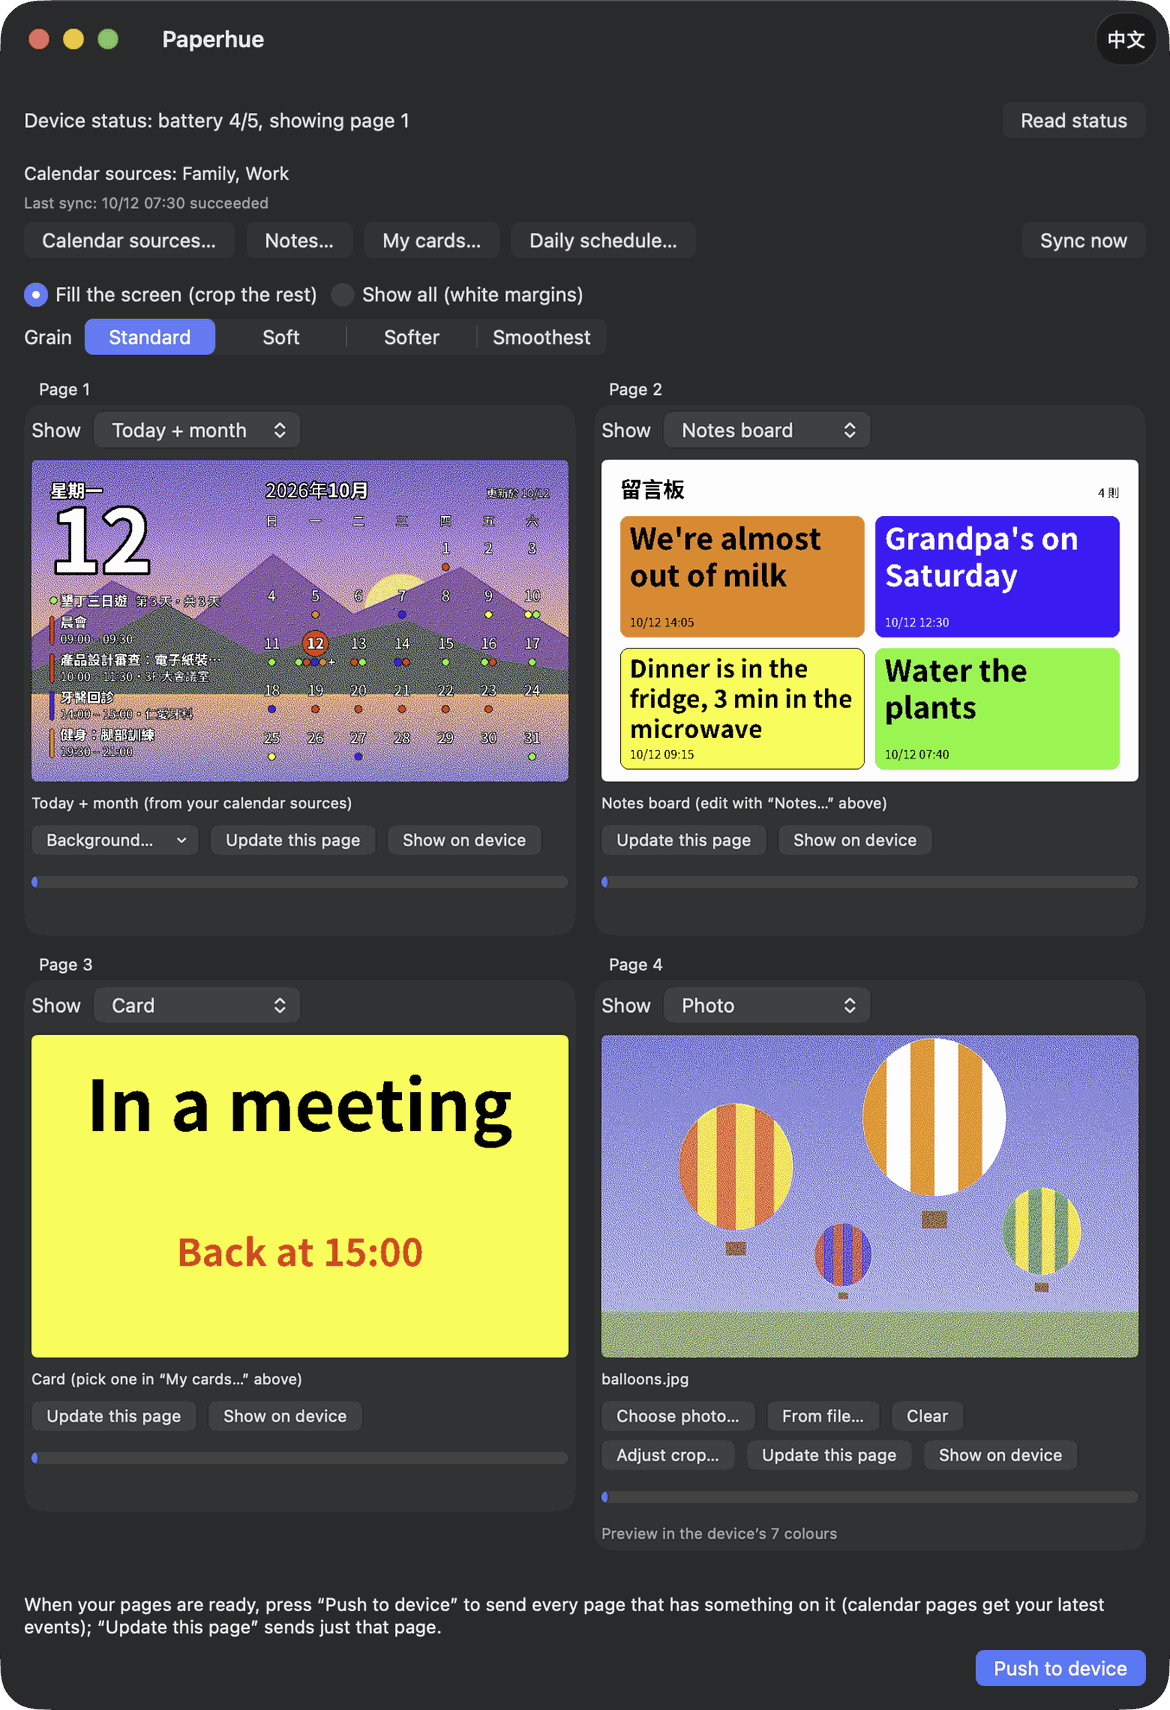
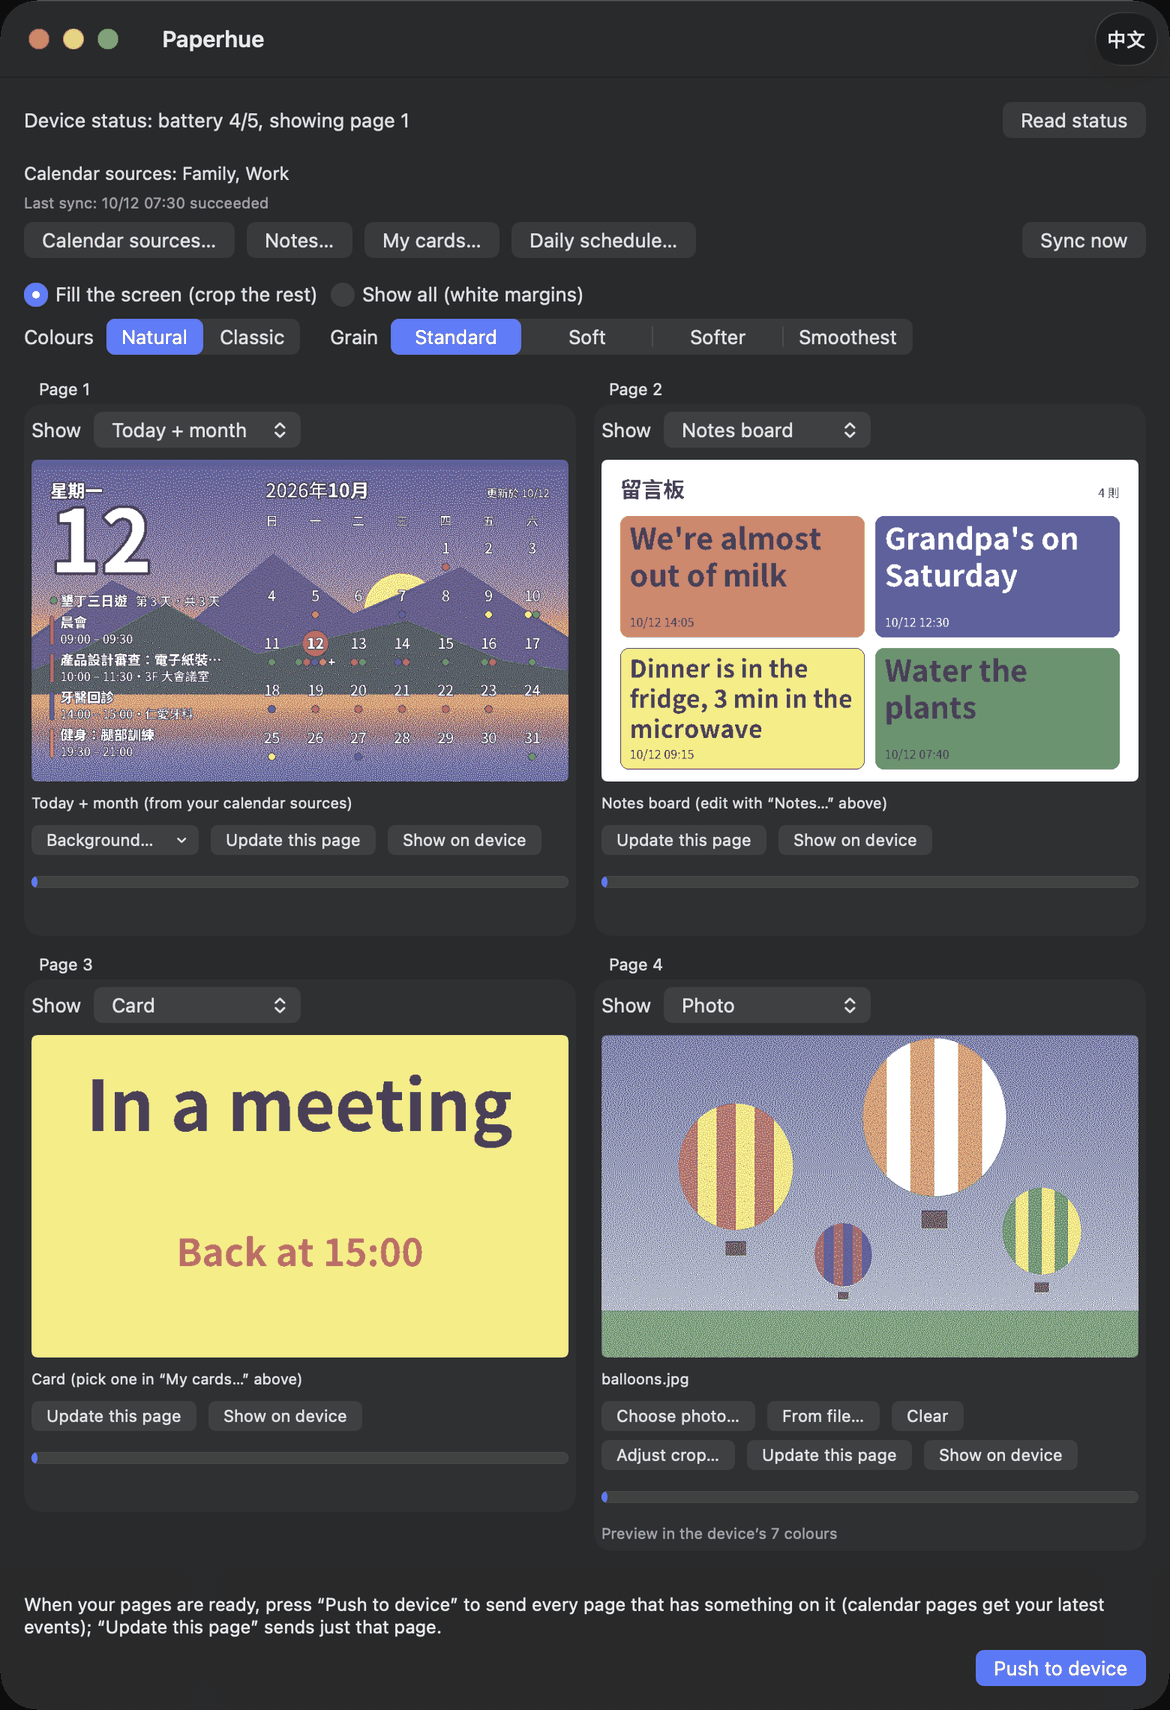
docs: the Mac app's 自然 encoder, and screenshots in the panel's colours
DEVELOPING.md's Photo dithering says how 自然 follows shared/DITHER.md, where
its tables live and what checks them. The README screenshots are retaken,
with sample data only: the 顏色 picker next to 顆粒感, and previews in the
panel's measured colours.

Claude-Session: https://claude.ai/code/session_01VQtsf2c6U7UU6GRtvvdUKC

diff --git a/apple/DEVELOPING.md b/apple/DEVELOPING.md
@@ -180,10 +180,23 @@ the settings as `"colours"`. Settings kept before it load once as 自然 at
 標準 (`PageSettings.load`). Picking 自然 sets 顆粒感 to 標準, and 經典 keeps
 it. `ulani-swift` takes `--colours natural|classic` (default natural).
 
-- 自然 is the hue-sector error diffusion of
-  [`shared/DITHER.md`](../shared/DITHER.md), against the panel's measured
-  colours.
-- 經典 is the Stucki encoder below.
+- 自然 (`Natural`) follows [`shared/DITHER.md`](../shared/DITHER.md)
+  §4-§5, like Python's `image.natural`:
+  - Each colour is mapped to what the panel can show, in linear light.
+  - Serpentine Stucki error diffusion then matches it against the panel's
+    measured colours, using black, white and the two inks either side of
+    its hue.
+  - It works in Doubles in the spec's order (swiftc fuses no multiply-add)
+    and rounds nothing.
+  - The tables are `shared/dither/natural-tables.json`, copied verbatim
+    into `NaturalTables.swift`, because the app ships no resource bundle
+    for UlaniKit. When the shared file changes, copy it in again;
+    `NaturalTests` fails until then.
+  - `NaturalTests` passes
+    [`shared/vectors/natural-vectors.json`](../shared/vectors/natural-vectors.json)
+    in full.
+  - A frame takes about 30 ms on an M2 in a release build.
+- 經典 is the Stucki encoder below, unchanged from 0.3.
 
 `FrameEncoder` (經典) maps photos to the panel's 7 colours with Stucki error
 diffusion on integer RGB, defined exactly like `stucki` in
